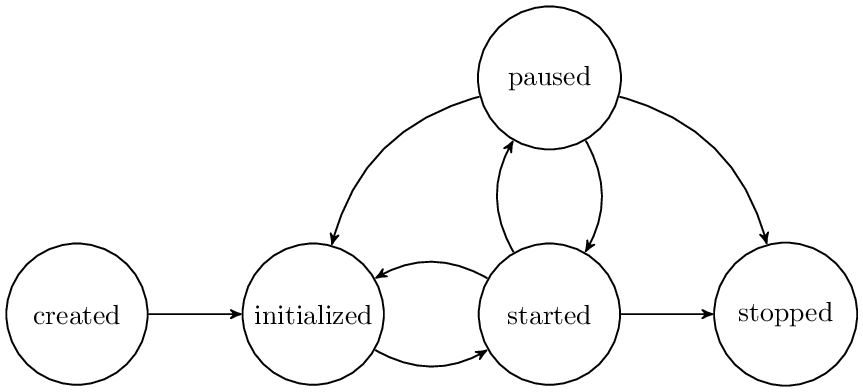
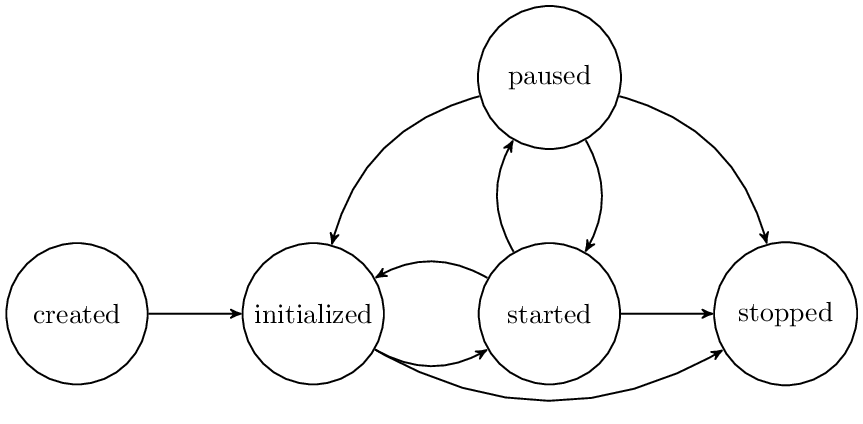
Created Integration Test

diff --git a/hbp_nrp_backend/hbp_nrp_backend/tests/integration/integration_test.py b/hbp_nrp_backend/hbp_nrp_backend/tests/integration/integration_test.py
@@ -1,0 +1,179 @@
+"""
+This module contains the script to run the integration test
+"""
+
+__author__ = 'GeorgHinkel'
+
+import logging
+import sys
+
+import rospy
+import std_msgs.msg
+from cle_ros_msgs.msg import SpikeRate
+from hbp_nrp_cle.cle.ROSCLESimulationFactoryClient import ROSCLESimulationFactoryClient
+from hbp_nrp_cle.cle.ROSCLEClient import ROSCLEClient
+from hbp_nrp_cle.bibi_config.bibi_configuration_script import generate_cle
+from threading import Thread
+import json
+import os
+import time
+import traceback
+import subprocess
+from hbp_nrp_backend.rest_server import app
+
+log_format = '%(asctime)s [%(threadName)-12.12s] [%(name)-12.12s] [%(levelname)s]  %(message)s'
+logger = logging.getLogger(__name__)
+console_handler = logging.StreamHandler(sys.stdout)
+console_handler.setFormatter(logging.Formatter(log_format))
+logging.root.setLevel(logging.DEBUG)
+logging.root.addHandler(console_handler)
+
+failed = False
+monitor_called = False
+
+
+def unhandled_exception(type, value, tracebck):
+    global failed
+    failed = True
+    logger.error("Unhandled exception of type {0}: {1}".format(type, value))
+    traceback.print_tb(tracebck)
+
+sys.excepthook = unhandled_exception
+
+
+def monitor_callback(spike_rate):
+    global monitor_called
+    monitor_called = True
+    assert isinstance(spike_rate, SpikeRate)
+    if spike_rate.simulationTime < 20:
+        if spike_rate.monitorName == "right_wheel_neuron_monitor":
+            if not 5 < spike_rate.rate < 30:
+                log_message = "Spike rate should have been between 5 and 30" \
+                              " but was {0} at simulation time {1}"
+                log_message = log_message.format(spike_rate.rate, spike_rate.simulationTime)
+                logger.error(log_message)
+                global failed
+                failed = True
+
+def exception_callback(exc):
+    global failed
+    failed = True
+    logger.exception(exc)
+    traceback.print_last()
+
+
+def check_response(response, msg = "Request", status_code = 200):
+    global failed
+    if response.status_code != status_code:
+        logger.error(msg + " failed, " + repr(response))
+        exit(1)
+    else:
+        logger.info(msg + " successfully completed")
+
+
+def run_integration_test():
+    sim_factory = None
+    global failed
+
+    current_dir = os.path.split(__file__)[0]
+    generated_bibi_path = os.path.join(current_dir, '__generated_bibi.py')
+    run_masked_simulation = os.path.join(current_dir, 'integration_test_simulation_factory.py')
+
+    client = app.test_client()
+
+    try:
+        # First, start simulation factory
+        sim_factory = subprocess.Popen([sys.executable, run_masked_simulation])
+
+        time.sleep(5)
+
+        os.environ['NRP_MODELS_DIRECTORY'] = current_dir
+
+        rospy.init_node('integration_test_monitor')
+
+        logging.root.addHandler(console_handler)
+
+        rospy.Subscriber("/monitor/population_rate", SpikeRate, monitor_callback)
+        rospy.Subscriber("/integration_test/exceptions", std_msgs.msg.String, exception_callback)
+        monitor_thread = Thread(target=rospy.spin)
+
+        monitor_thread.start()
+
+        auth_header = {'X-User-Name': "integration-test"}
+
+        # Create experiment
+        response = client.post('/simulation', data='{"experimentID":"integration_test_exd.xml"}',
+                               headers=auth_header)
+        check_response(response, "Create experiment", status_code=201)
+
+        # Initialize experiment
+        response = client.put('/simulation/0/state', data='{"state": "initialized"}',
+                              headers=auth_header)
+        check_response(response, "Initialize experiment")
+
+        # Change color of the light
+        light_data = {
+            "name": "right_spot",
+            "diffuse": {
+                "r": "255",
+                "g": "255",
+                "b": "255",
+                "a": "255"
+           }
+        }
+        response = client.put('/simulation/0/interaction/light',
+                              data=json.dumps(light_data, ensure_ascii=True),
+                              headers=auth_header)
+        check_response(response, "Set color of the light")
+
+        # Set right screen to red
+        response = client.put('/simulation/0/interaction', data='{"name": "RightScreenToRed"}',
+                              headers=auth_header)
+        check_response(response, "Set monitor to red")
+
+        # Start experiment
+        response = client.put('/simulation/0/state', data='{"state": "started"}',
+                              headers=auth_header)
+        check_response(response, "Start experiment")
+
+        time.sleep(20)
+
+        # Pause the experiment
+        response = client.put('/simulation/0/state', data='{"state": "paused"}',
+                              headers=auth_header)
+        check_response(response, "Pause experiment")
+
+        # Reset the experiment
+        response = client.put('/simulation/0/state', data='{"state": "initialized"}',
+                              headers=auth_header)
+        check_response(response, "Reset experiment")
+
+        # Stop experiment
+        response = client.put('/simulation/0/state', data='{"state": "stopped"}',
+                              headers=auth_header)
+        check_response(response, "Stop experiment")
+
+    finally:
+        if sim_factory is not None:
+            sim_factory.kill()
+
+        # This signal shutdown will only shutdown the monitoring subscriber, not a running gzserver
+        rospy.signal_shutdown("Integration test is done")
+
+        if os.path.isfile(generated_bibi_path):
+            os.remove(generated_bibi_path)
+
+
+    if failed or not monitor_called:
+        if failed:
+            logger.error("An error occurred. Marking the integration test to fail.")
+        if not monitor_called:
+            logger.error("The monitoring callback has not been called. "
+                         "Marking integration test as failed.")
+        exit(1)
+    else:
+        logger.info("Integration test succeeded")
+        exit(0)
+
+if __name__ == "__main__":
+    run_integration_test()

diff --git a/hbp_nrp_backend/hbp_nrp_backend/rest_server/__SimulationControl.py b/hbp_nrp_backend/hbp_nrp_backend/rest_server/__SimulationControl.py
@@ -172,17 +172,18 @@ class LightControl(Resource):
         if 'name' not in body:
             return "No name given", 400
 
-        in_name = body['name']
+        in_name = LightControl.as_ascii(body['name'])
         in_diffuse = body.get('diffuse')
-        in_attenuation_constant = body.get('attenuation_constant')
-        in_attenuation_linear = body.get('attenuation_linear')
-        in_attenuation_quadratic = body.get('attenuation_quadratic')
+
+        in_attenuation_constant = LightControl.as_float(body.get('attenuation_constant'))
+        in_attenuation_linear = LightControl.as_float(body.get('attenuation_linear'))
+        in_attenuation_quadratic = LightControl.as_float(body.get('attenuation_quadratic'))
 
         diffuse = None
 
         if in_diffuse is not None:
-            diffuse = ColorRGBA(in_diffuse['r'], in_diffuse['g'],
-                                in_diffuse['b'], in_diffuse['a'])
+            diffuse = ColorRGBA(float(in_diffuse['r']), float(in_diffuse['g']),
+                                float(in_diffuse['b']), float(in_diffuse['a']))
 
         if in_diffuse is None or in_attenuation_constant is None \
                 or in_attenuation_linear is None or in_attenuation_quadratic is None:
@@ -228,6 +229,32 @@ class LightControl(Resource):
             return "Service did not process request: " + str(exc), 400
 
         return "Changed light intensity", 200
+
+    @staticmethod
+    def as_float(val):
+        """
+        Converts the given object to a float, provided it is not None
+
+        :param val: The value that should be converted, can be a string, a number or None
+        """
+        if val is None:
+            return None
+        else:
+            return float(val)
+
+    @staticmethod
+    def as_ascii(val):
+        """
+        Converts the given object to an ascii-string
+
+        :param val: The value object that should be converted to an ascii string
+        """
+        if val is None:
+            return None
+        elif type(val) == unicode:
+            return val.encode('ascii', 'ignore')
+        else:
+            return val
 
 
 class CustomEventControl(Resource):

diff --git a/hbp_nrp_backend/hbp_nrp_backend/exd_config/experiment_configuration_script.py b/hbp_nrp_backend/hbp_nrp_backend/exd_config/experiment_configuration_script.py
@@ -4,10 +4,13 @@ Script to run Experiment from ExperimentDesigner Configuration File
 from hbp_nrp_backend.exd_config.generated import generated_experiment_api
 from hbp_nrp_cle.bibi_config import bibi_configuration_script
 import os
+import logging
 from hbp_nrp_cle.cle.ROSCLEClient import ROSCLEClient
 from hbp_nrp_cle.cle.ROSCLESimulationFactoryClient import ROSCLESimulationFactoryClient
 
 __author__ = 'Lorenzo Vannucci, Daniel Peppicelli'
+
+logger = logging.getLogger(__name__)
 
 # pylint: disable=E1103
 # pylint infers the wrong type for config
@@ -26,6 +29,9 @@ def generate_bibi(experiment_conf, bibi_script_file_name):
                                   including .py and the complete path.
     """
 
+    logger.info("Generating BIBI configuration for experiment {0} to {1}"
+                .format(experiment_conf, bibi_script_file_name))
+
     # parse experiment configuration
     experiment = generated_experiment_api.parse(experiment_conf, silence=True)
 
@@ -38,6 +44,7 @@ def generate_bibi(experiment_conf, bibi_script_file_name):
         timeout = 600.0
     else:
         timeout = experiment.timeout
+
     bibi_configuration_script.generate_cle(bibi_conf,
                                            bibi_script_file_name,
                                            timeout)
@@ -59,6 +66,7 @@ def initialize_experiment(experiment_conf, generated_cle_script_file, gzserver_h
     """
 
     # parse experiment configuration to get the environment to spawn.
+    logger.info("Requesting simulation resources")
     experiment = generated_experiment_api.parse(experiment_conf, silence=True)
     simulation_factory_client = ROSCLESimulationFactoryClient()
     simulation_factory_client.start_new_simulation(

diff --git a/hbp_nrp_backend/hbp_nrp_backend/rest_server/__ErrorHandlers.py b/hbp_nrp_backend/hbp_nrp_backend/rest_server/__ErrorHandlers.py
@@ -9,6 +9,7 @@ __author__ = 'GeorgHinkel'
 from hbp_nrp_backend.rest_server import app, NRPServicesGeneralException
 from hbp_nrp_cle.cle.ROSCLEClient import ROSCLEClientException
 import json
+import logging
 # pylint: disable=W0613
 
 
@@ -27,6 +28,7 @@ def internal_error(error):
     Handles internal server errors
     :param error: The error object
     """
+    logging.exception(error)
     message = "Internal server error: " + str(error)
     return json.dumps({'message': message,
                        'type': 'General error'}), 500
@@ -41,6 +43,7 @@ def internal_error(error):
     Handles ROSCLEClientException errors
     :param error: The error object
     """
+    logging.exception(error)
     message = "Error while communicating with the CLE"
     message += " (" + str(error) + ")."
     return json.dumps({'message': message, 'type': 'CLE error'}), 500
@@ -53,5 +56,6 @@ def error2json(error):
     Handles NRPServicesGeneralException errors
     :param error: The error object
     """
+    logging.exception(error)
     return json.dumps({'message': error.message,
                        'type': error.error_type}), error.error_code

diff --git a/hbp_nrp_backend/hbp_nrp_backend/rest_server/tests/test_simulation_config.py b/hbp_nrp_backend/hbp_nrp_backend/rest_server/tests/test_simulation_config.py
@@ -122,10 +122,6 @@ class TestSimulationConfig(unittest.TestCase):
         self.assertEqual(response.status_code, 400)
         self.assertIs(utc.last_sim_id, None)
 
-        response = self.client.put('/simulation/1/state', data='{"state": "stopped"}')
-        self.assertEqual(response.status_code, 400)
-        self.assertIs(utc.last_sim_id, None)
-
         response = self.client.put('/simulation/1/state', data='{"state": "started"}',
                                    headers={'X-User-Name': 'Test'})
         self.assertEqual(response.status_code, 401)
@@ -136,6 +132,11 @@ class TestSimulationConfig(unittest.TestCase):
         self.assertEqual('{"state": "started"}', response.data)
         self.assertEqual(utc.last_sim_id, 1)
         self.assertEqual(utc.last_transition, "start")
+
+        response = self.client.put('/simulation/1/state', data='{"state": "stopped"}')
+        self.assertEqual(response.status_code, 200)
+        self.assertEqual('{"state": "stopped"}', response.data)
+        self.assertIs(utc.last_sim_id, 1)
 
     def test_started_transitions(self):
         utc.last_sim_id = None

diff --git a/hbp_nrp_backend/hbp_nrp_backend/tests/integration/integration_test_simulation_factory.py b/hbp_nrp_backend/hbp_nrp_backend/tests/integration/integration_test_simulation_factory.py
@@ -1,0 +1,33 @@
+"""
+This module starts the ROSCLESimulationFactory pushing all exceptions to a dedicated ROS topic
+"""
+
+__author__ = 'GeorgHinkel'
+
+from hbp_nrp_cle.cle import ROSCLESimulationFactory
+import rospy
+import std_msgs.msg
+import sys
+import logging
+
+error_publisher = None
+
+def unhandled_exception(type, value, traceback):
+    error_message = "Unhandled exception of type {0}: {1}".format(type, value)
+    if error_publisher is not None:
+        error_publisher.publish(error_message)
+
+if __name__ == "__main__":
+    sys.excepthook = unhandled_exception
+
+    logging.root.name = "SimulationFactory"
+
+    server = ROSCLESimulationFactory.ROSCLESimulationFactory()
+    logging.info("Initialize CLE server")
+    server.initialize()
+    ROSCLESimulationFactory.set_up_logger(None)
+    logging.info("Create publisher for exceptions")
+    error_publisher = rospy.Publisher("/integration_test/exceptions", std_msgs.msg.String, queue_size=10)
+    logging.info("Starting CLE server")
+    server.run()
+    logging.info("CLE server shutdown")

diff --git a/hbp_nrp_backend/hbp_nrp_backend/simulation_control/__StateMachine.py b/hbp_nrp_backend/hbp_nrp_backend/simulation_control/__StateMachine.py
@@ -53,7 +53,8 @@ def __initialize_simulation(sim_id):
 
 
 stateMachine = {'created': {'initialized': __initialize_simulation},
-                'initialized': {'started': __start_simulation},
+                'initialized': {'started': __start_simulation,
+                                'stopped': __stop_simulation},
                 'started': {'paused': __pause_simulation,
                             'initialized': __reset_simulation,
                             'stopped': __stop_simulation},

diff --git a/hbp_nrp_backend/doc/source/img/stateMachine.tex b/hbp_nrp_backend/doc/source/img/stateMachine.tex
@@ -18,6 +18,7 @@
 
     \path (created) edge node [left] {} (initialized)
           (initialized)	edge [bend right] node {} (started)
+                    edge[bend right] node {} (stopped)
           (paused)	edge [bend right] node {} (initialized)
                     edge [bend left] node{} (started)
                     edge [bend left] node{} (stopped)
